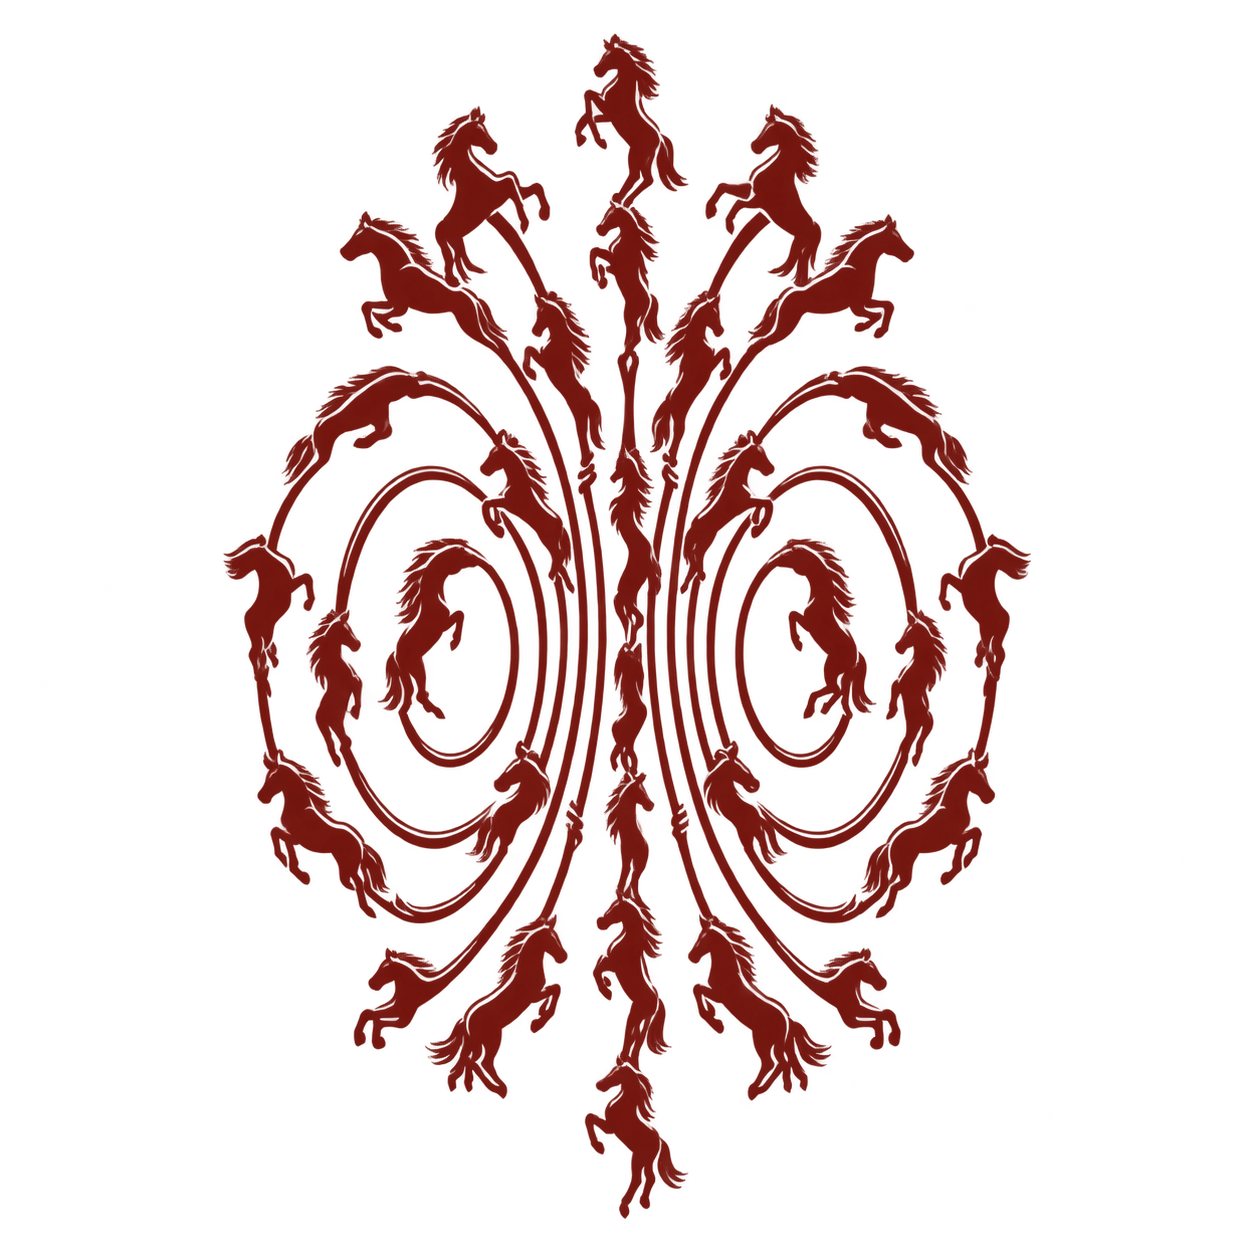
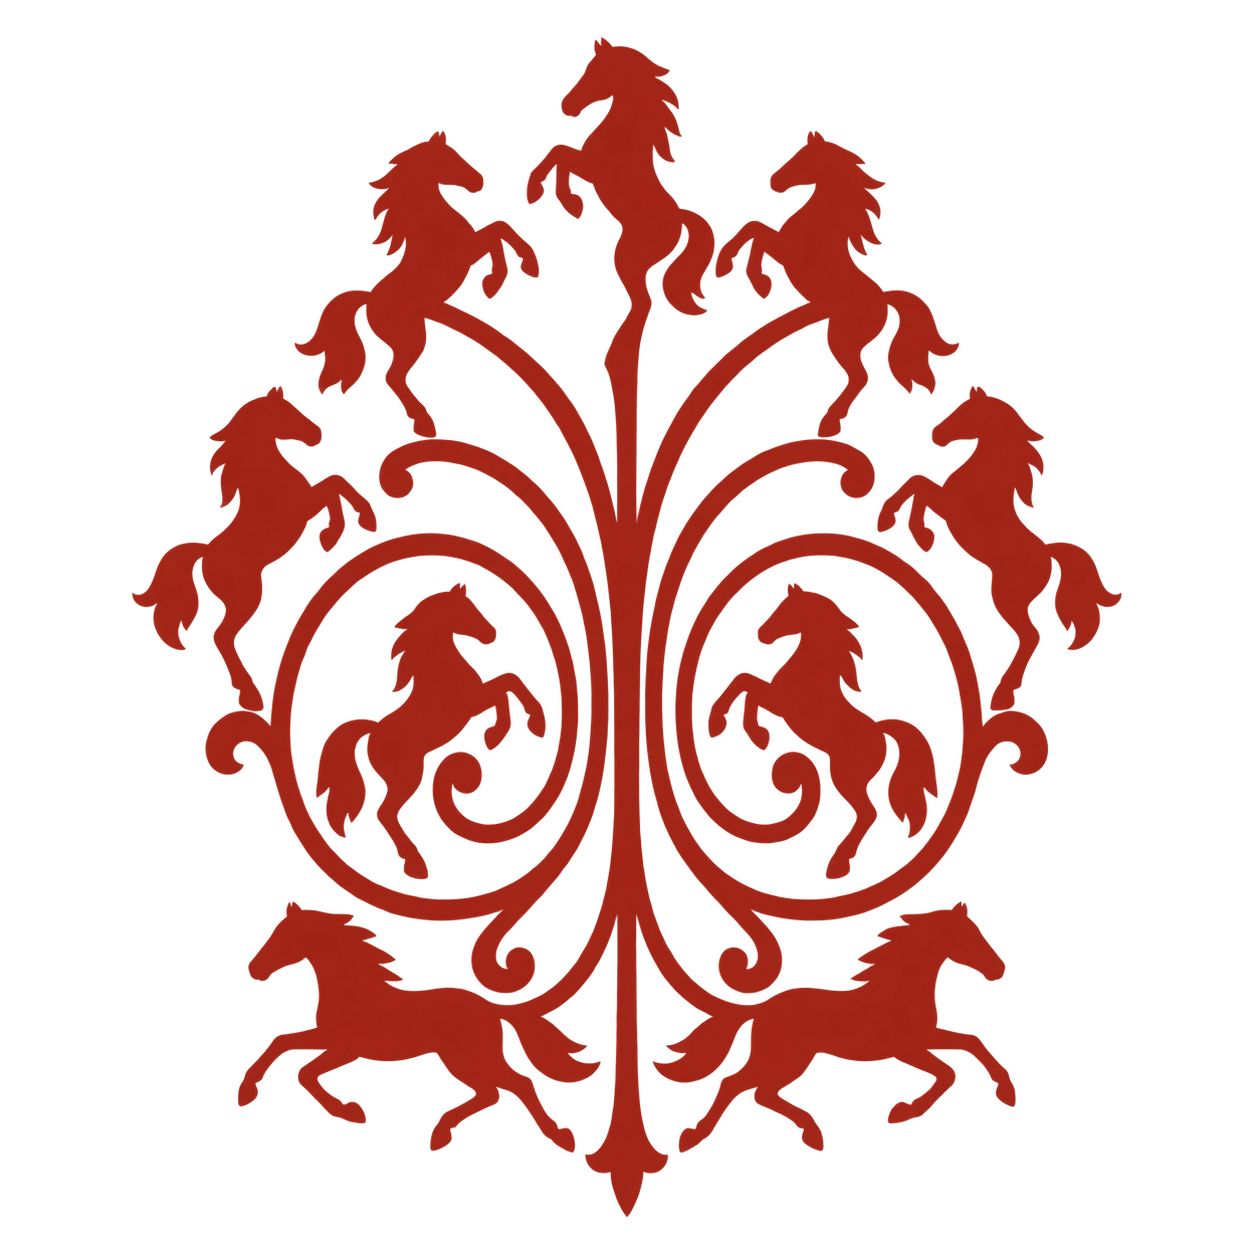
Redraw ornament as flat art in the title color

diff --git a/styles.css b/styles.css
@@ -30,6 +30,11 @@ button:disabled{cursor:default;opacity:.35}
 .text-link{border-bottom:1px solid currentColor;padding-bottom:3px;width:fit-content}
 .hero-object{justify-self:end;width:170px}
 .hero-object img{width:100%;aspect-ratio:1;object-fit:contain}
+.hero-ornament{position:relative;color:var(--red)}
+@supports (mask-image:linear-gradient(#000,#000)) or (-webkit-mask-image:linear-gradient(#000,#000)){
+  .hero-ornament::before{content:"";position:absolute;inset:0;background-color:currentColor;-webkit-mask:var(--ornament-image) center/contain no-repeat;mask:var(--ornament-image) center/contain no-repeat}
+  .hero-ornament img{opacity:0}
+}
 .archive-heading{position:sticky;top:0;z-index:10;margin:0 var(--pad);border-top:1px solid var(--line);border-bottom:1px solid var(--line);padding:17px 0 12px;background:var(--paper)}
 .archive-heading>p{font-size:11px;line-height:1.4;color:var(--muted);margin-bottom:5px}
 .filter-nav{display:flex;justify-content:flex-start;flex-wrap:wrap;gap:0 30px;width:fit-content;font-size:15px;letter-spacing:-.025em}

diff --git a/build.py b/build.py
@@ -132,7 +132,7 @@ def home():
       <div class="hero-foot">
         <p class="hero-note">A collection of<br>eleven projects.</p>
         <div class="hero-intro"><p>{announcement}</p></div>
-        <div class="hero-object" aria-hidden="true"><img src="./ornament.png?v={STATIC_VERSIONS["ornament.png"]}" width="1254" height="1254" alt="" decoding="async"></div>
+        <div class="hero-object hero-ornament" style="--ornament-image:url('./ornament.png?v={STATIC_VERSIONS["ornament.png"]}')" aria-hidden="true"><img src="./ornament.png?v={STATIC_VERSIONS["ornament.png"]}" width="1254" height="1254" alt="" decoding="async"></div>
       </div>
     </section>
     <div class="archive-heading" id="archive"><p>Selected collections</p><nav class="filter-nav" aria-label="Filter projects by season">
